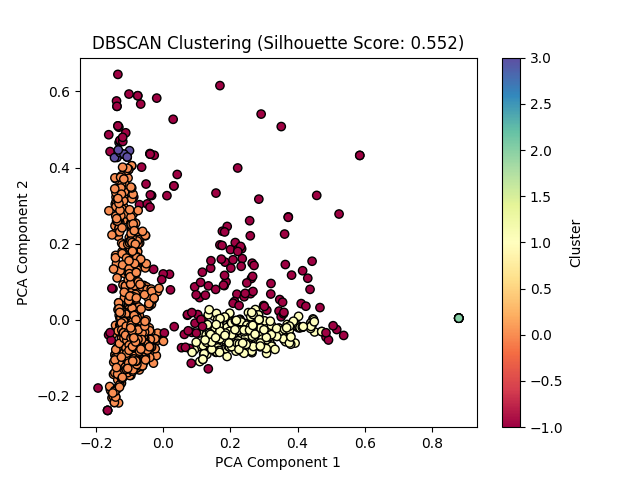
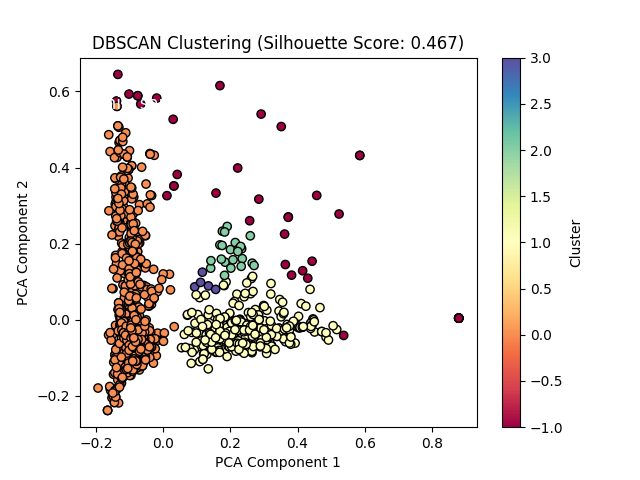
minor adjustments to DBSCAN script

diff --git a/DBSCAN (PCA embedding + silhouette score).py b/DBSCAN (PCA embedding + silhouette score).py
@@ -99,7 +99,7 @@ plt.show()
 
 # Step 2: Set min_samples and apply DBSCAN ( manual hyperparameters :( )
 eps = float(input("Enter optimal eps value from the graph: "))  # Manual input based on the plot
-min_samples = 7  # Default, can be adjusted
+min_samples = 11  # Default, can be adjusted
 
 dbscan = DBSCAN(eps=eps, min_samples=min_samples)
 df["Cluster"] = dbscan.fit_predict(X)
@@ -128,6 +128,10 @@ plt.title(f"DBSCAN Clustering (Silhouette Score: {sil_score:.3f})")
 plt.xlabel("PCA Component 1")
 plt.ylabel("PCA Component 2")
 plt.colorbar(label="Cluster")
+
+# Annotate the plot with eps and min_samples values
+plt.text(0.05, 0.95, f"eps = {eps}", fontsize=12, ha='left', va='top', transform=plt.gca().transAxes, color='white')
+plt.text(0.05, 0.90, f"min_samples = {min_samples}", fontsize=12, ha='left', va='top', transform=plt.gca().transAxes, color='white')
 
 # Save the plot as an image file
 plt.savefig("dbscan_clustering_visualization.png")
